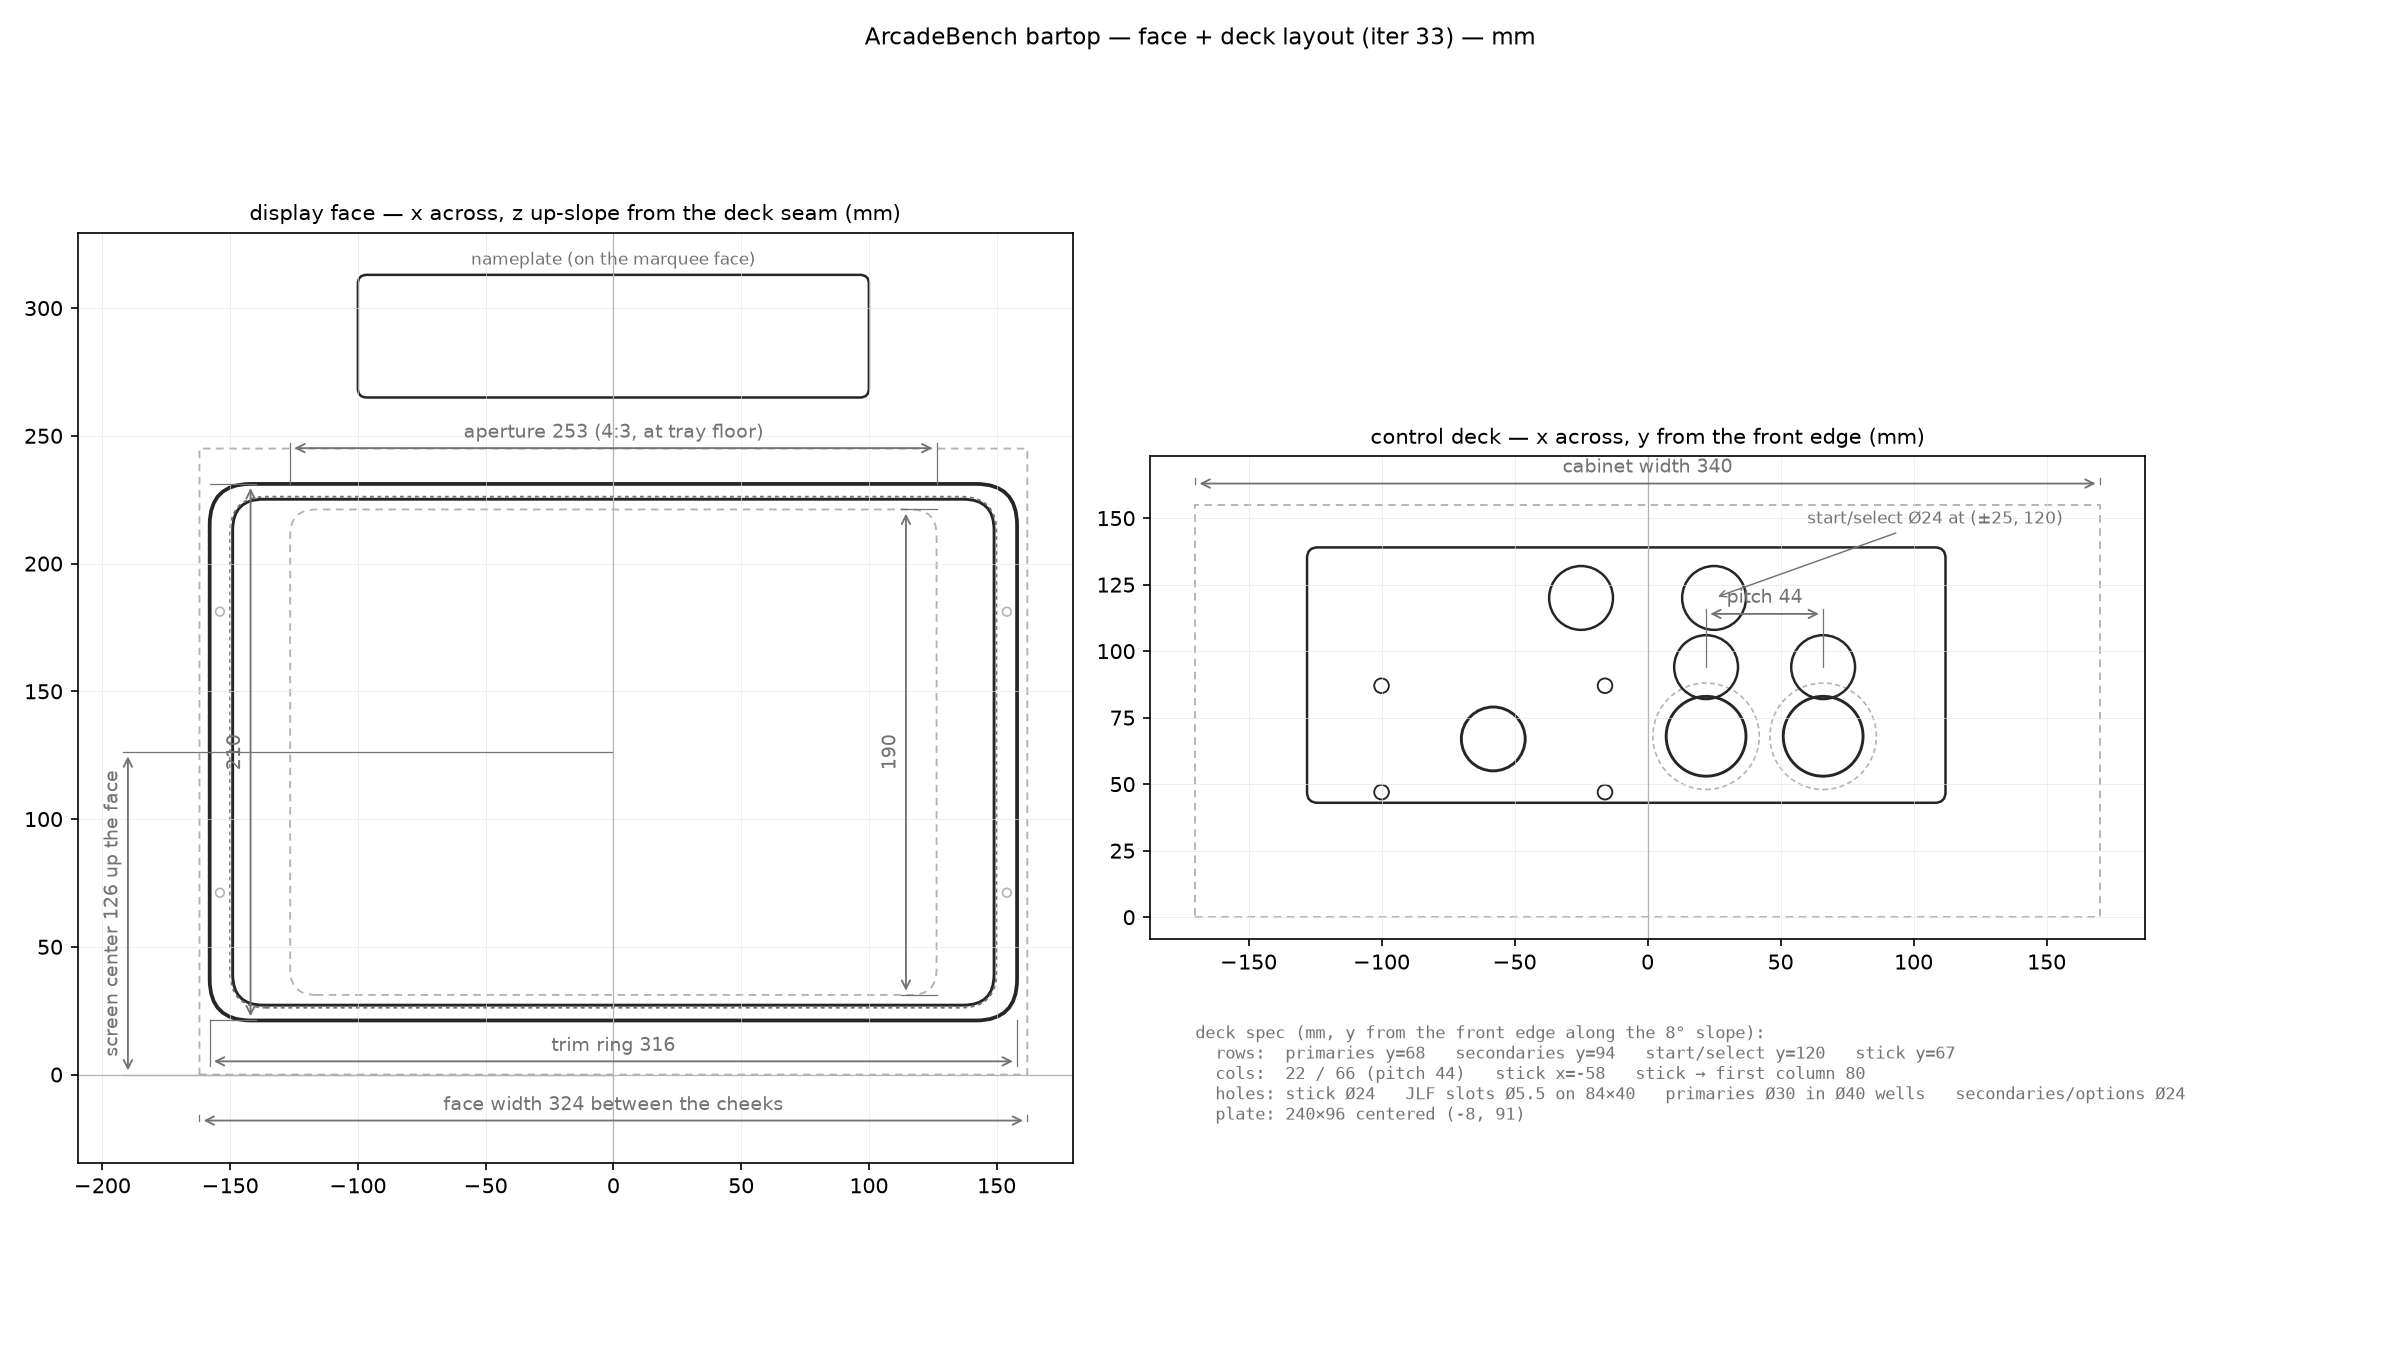
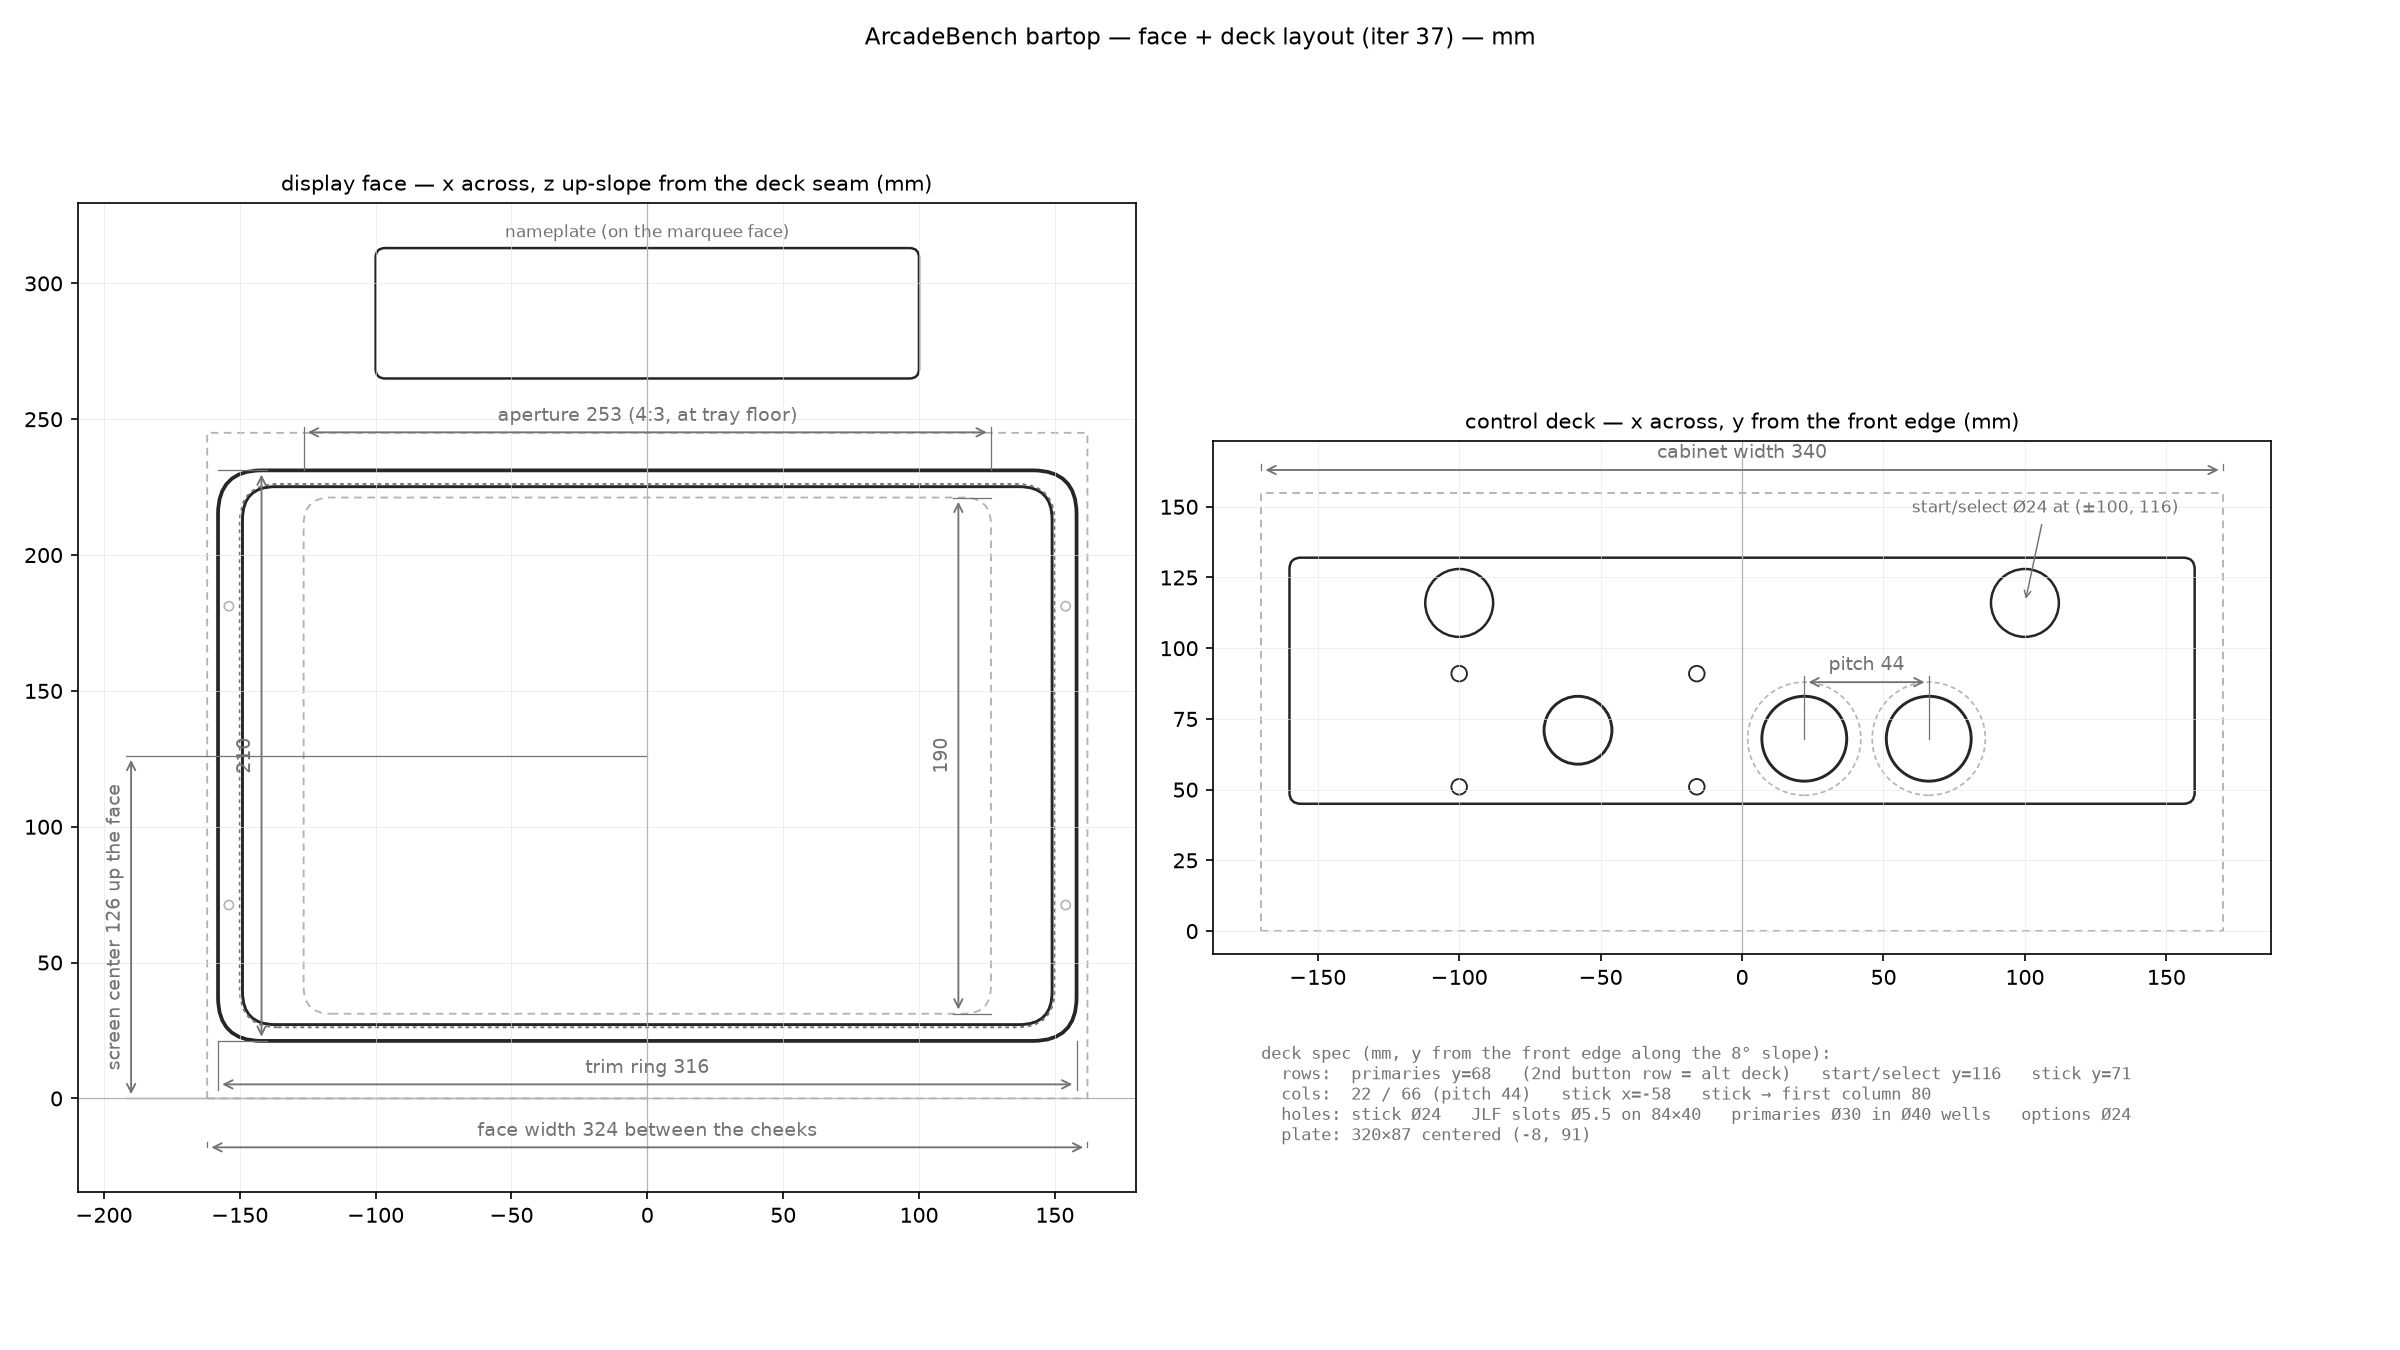
hardware iter 37: default controls = stick + 2 primaries + start/select
secondary_count 0 (no roster game needs >2 buttons; 2nd row becomes an
alt swappable deck panel). Primary pair x decoupled from the secondary
grid via new primary_center_x param — the old derivation dragged the
primaries into the JLF sweep at count=0. BOM updated.

diff --git a/hardware/drawing.py b/hardware/drawing.py
@@ -127,7 +127,7 @@ def draw_side():
             fontsize=9, family="monospace", va="top",
             bbox={"facecolor": "0.97", "edgecolor": "0.8"})
 
-    ax.set_title("ArcadeBench bartop — side cut pattern (iter 33) — mm, "
+    ax.set_title("ArcadeBench bartop — side cut pattern (iter 37) — mm, "
                  "solid = side plate, dashed = inner wrap line", fontsize=11)
     ax.set_xlabel("y: front -> back (mm)")
     ax.set_ylabel("z: height (mm)")
@@ -218,9 +218,7 @@ def draw_front():
                  jy + sy * P["jlf_mount_spacing_y"] / 2),
                 P["jlf_mount_hole_dia"] / 2, fill=False, edgecolor=CUT,
                 lw=0.9))
-    sec_center = P["button_grid_offset_x"] \
-        + P["secondary_pitch"] * (P["secondary_count"] - 1) / 2
-    cols = [cx + sec_center + (i - (P["primary_count"] - 1) / 2)
+    cols = [cx + P["primary_center_x"] + (i - (P["primary_count"] - 1) / 2)
             * P["primary_pitch"] for i in range(P["primary_count"])]
     for bx in cols:
         axd.add_patch(Circle((bx, P["primary_row_y"]),
@@ -229,6 +227,8 @@ def draw_front():
         axd.add_patch(Circle((bx, P["primary_row_y"]),
                              P["primary_recess_dia"] / 2, fill=False,
                              edgecolor=REF, lw=0.8, linestyle=(0, (3, 2))))
+    for i in range(P["secondary_count"]):
+        bx = cx + P["button_grid_offset_x"] + i * P["secondary_pitch"]
         axd.add_patch(Circle((bx, P["secondary_row_y"]),
                              P["secondary_hole_dia"] / 2, fill=False,
                              edgecolor=CUT, lw=1.2))
@@ -239,7 +239,7 @@ def draw_front():
 
     # dims: pitch above the grid + cabinet width; everything else in a
     # spec block below the deck (inline dims crowded the cluster)
-    dim(axd, (cols[0], P["secondary_row_y"]), (cols[1], P["secondary_row_y"]),
+    dim(axd, (cols[0], P["primary_row_y"]), (cols[1], P["primary_row_y"]),
         20, f"pitch {P['primary_pitch']:.0f}")
     axd.annotate(
         f"start/select \u00d824 at (\u00b1{P['option_offset_x']:.0f}, "
@@ -248,10 +248,12 @@ def draw_front():
         fontsize=8, color=DIM,
         arrowprops={"arrowstyle": "->", "color": DIM, "lw": 0.7})
     dim(axd, (-170, deck_d + 8), (170, deck_d + 8), 0, "cabinet width 340")
+    sec_note = (f"   secondaries y={P['secondary_row_y']:.0f}"
+                if P["secondary_count"] else "   (2nd button row = alt deck)")
     spec = "\n".join([
         "deck spec (mm, y from the front edge along the 8\u00b0 slope):",
-        f"  rows:  primaries y={P['primary_row_y']:.0f}   secondaries "
-        f"y={P['secondary_row_y']:.0f}   start/select y={P['option_offset_y']:.0f}"
+        f"  rows:  primaries y={P['primary_row_y']:.0f}{sec_note}"
+        f"   start/select y={P['option_offset_y']:.0f}"
         f"   stick y={P['joystick_offset_y']:.0f}",
         f"  cols:  {cols[0]:.0f} / {cols[1]:.0f} (pitch "
         f"{P['primary_pitch']:.0f})   stick x={jx:.0f}   "
@@ -260,7 +262,7 @@ def draw_front():
         f"slots \u00d8{P['jlf_mount_hole_dia']} on "
         f"{P['jlf_mount_spacing_x']:.0f}\u00d7{P['jlf_mount_spacing_y']:.0f}"
         f"   primaries \u00d830 in \u00d8{P['primary_recess_dia']:.0f} wells"
-        f"   secondaries/options \u00d824",
+        f"   options \u00d824",
         f"  plate: {pw:.0f}\u00d7{pd:.0f} centered ({P['cluster_offset_x']:.0f}"
         f", {P['control_plate_center_y']:.0f})",
     ])
@@ -272,7 +274,7 @@ def draw_front():
     axd.grid(True, lw=0.3, color="0.9")
     axd.axvline(0, color=REF, lw=0.6)
 
-    fig.suptitle("ArcadeBench bartop — face + deck layout (iter 33) — mm",
+    fig.suptitle("ArcadeBench bartop — face + deck layout (iter 37) — mm",
                  fontsize=11)
     fig.tight_layout()
     fig.savefig(OUT_DIR / "drawing_front.png", dpi=150)

diff --git a/hardware/assembly.py b/hardware/assembly.py
@@ -197,8 +197,8 @@ def place_components():
             (jx, jy, jz),
         )
 
-        # buttons: 2 primaries (red, front row) + 2 secondaries (white);
-        # seated square to the sloped deck (holes are cut the same way)
+        # buttons: 2 primaries (red, front row) — the basic assembly is
+        # stick + 2 + start/select; a 2nd row is an alt deck panel
         s_seat = CAB["control_deck_slope_deg"]
         for i in range(CAB["secondary_count"]):
             bx = cluster_x + CAB["button_grid_offset_x"] + i * CAB["secondary_pitch"]
@@ -210,10 +210,8 @@ def place_components():
                  for s, c in btn_parts],
                 (bx, by, deck_z(by)),
             )
-        sec_center = CAB["button_grid_offset_x"] \
-            + CAB["secondary_pitch"] * (CAB["secondary_count"] - 1) / 2
         for i in range(CAB["primary_count"]):
-            bx = cluster_x + sec_center \
+            bx = cluster_x + CAB["primary_center_x"] \
                 + (i - (CAB["primary_count"] - 1) / 2) * CAB["primary_pitch"]
             by = CAB["primary_row_y"]
             _, btn_parts, _ = comp.button_obsf30(color=comp.RED)

diff --git a/hardware/cabinet.py b/hardware/cabinet.py
@@ -172,8 +172,12 @@ PARAMS = {
     "primary_hole_dia": 30.0,      # 2 primaries/player: Sanwa OBSF-30
     "secondary_hole_dia": 24.0,    # 2 secondaries/player: Sanwa OBSF-24
     "primary_count": 2,
-    "secondary_count": 2,          # iter 33: 2+2 grid (was 4 secondaries) —
-                                   #   the game roster is stick + 1-2 buttons
+    "secondary_count": 0,          # iter 37: basic assembly is stick + 2
+                                   #   primaries + start/select — no game needs
+                                   #   >2 buttons; 2nd row = alt deck reprint
+    "primary_center_x": 52.0,      # primary pair center rel. cluster center
+                                   #   (decoupled from the secondary grid so a
+                                   #   0-secondary layout keeps its position)
     "primary_pitch": 44.0,         # mm between primaries (front row); the
                                    #   Ø40 wells keep 4 mm rim gaps at 44
     "secondary_pitch": 44.0,       # aligned 2x2 grid: same pitch both rows

diff --git a/hardware/parts.py b/hardware/parts.py
@@ -477,14 +477,12 @@ def _control_holes():
                 my = jy + sy * p["jlf_mount_spacing_y"] / 2
                 holes.append((jx + sx * p["jlf_mount_spacing_x"] / 2,
                               u(my), p["jlf_mount_hole_dia"] / 2, "plain"))
-        sec_center = p["button_grid_offset_x"] \
-            + p["secondary_pitch"] * (p["secondary_count"] - 1) / 2
         for i in range(p["secondary_count"]):
             bx = cluster_x + p["button_grid_offset_x"] + i * p["secondary_pitch"]
             holes.append((bx, u(p["secondary_row_y"]),
                           p["secondary_hole_dia"] / 2, "plain"))
         for i in range(p["primary_count"]):
-            bx = cluster_x + sec_center \
+            bx = cluster_x + p["primary_center_x"] \
                 + (i - (p["primary_count"] - 1) / 2) * p["primary_pitch"]
             holes.append((bx, u(p["primary_row_y"]),
                           p["primary_hole_dia"] / 2, "well"))

diff --git a/hardware/components.py b/hardware/components.py
@@ -389,11 +389,9 @@ def control_plate():
         for i in range(CAB["secondary_count"]):
             hole(cx + CAB["button_grid_offset_x"] + i * CAB["secondary_pitch"],
                  CAB["secondary_row_y"], CAB["secondary_hole_dia"] + 1.0)
-        sec_center = CAB["button_grid_offset_x"] \
-            + CAB["secondary_pitch"] * (CAB["secondary_count"] - 1) / 2
         for i in range(CAB["primary_count"]):
             hole(
-                cx + sec_center
+                cx + CAB["primary_center_x"]
                 + (i - (CAB["primary_count"] - 1) / 2) * CAB["primary_pitch"],
                 CAB["primary_row_y"],
                 CAB["primary_recess_dia"] + 0.4,  # reveal the tactile wells

diff --git a/hardware/panels.py b/hardware/panels.py
@@ -151,11 +151,9 @@ def panel_features(name, panel, length):
                     half - p["secondary_row_y"],
                     p["secondary_hole_dia"],
                 )
-            sec_center = p["button_grid_offset_x"] \
-                + p["secondary_pitch"] * (p["secondary_count"] - 1) / 2
             for i in range(p["primary_count"]):
                 hole(
-                    cluster_x + sec_center
+                    cluster_x + p["primary_center_x"]
                     + (i - (p["primary_count"] - 1) / 2) * p["primary_pitch"],
                     half - p["primary_row_y"],
                     p["primary_hole_dia"],

diff --git a/docs/HARDWARE-BOM.md b/docs/HARDWARE-BOM.md
@@ -47,7 +47,6 @@ Prices are USD, as listed at research time — re-check before ordering.
 | ☐ | Part | Spec / pick | Est. | Source |
 | --- | --- | --- | --- | --- |
 | ☐ | Primary buttons ×2 | Sanwa OBSF-30, red — front row, recessed-well indicator on the deck | $7 | [Paradise Arcade](https://paradisearcadeshop.com/collections/sanwa-obsf-series), [Focus Attack](https://focusattack.com/sanwa-obsf-30mm-pushbuttons-black/) |
-| ☐ | Secondary buttons ×4 | Sanwa OBSF-24, white — back row | $10 | Same |
 | ☐ | Start/select ×2 | Sanwa OBSF-24, black, ~$2.50 ea | $5 | Paradise Arcade |
 | ☐ | Joystick | Sanwa JLF-TP-8YT — no shaft extension needed at a 3 mm deck (stock shaft is fine to ~4 mm) | $25 | [Focus Attack](https://focusattack.com/sanwa-jlf-tp-8yt-joystick-precursor-to-jlx-tp-8yt/) |
 | ☐ | Microswitches/boots | Spares for JLF + buttons | $10 | Same |
@@ -61,6 +60,11 @@ Prices are USD, as listed at research time — re-check before ordering.
 > Snap-in caveat: OBSF buttons are designed for thin metal panels; at 3 mm
 > printed deck they're at the top of the grip range — test on a coupon first,
 > or switch to screw-in OBSN-30.
+
+> Layout note (iter 37): the default control assembly is **stick + 2 OBSF-30
+> + start/select** — no game in the roster needs more than two buttons. A
+> 2×2 grid (add 2 OBSF-24, white, ~$5) or any other layout is a swappable
+> deck-panel reprint, not a shell change.
 
 ## 4. Audio
 

diff --git a/hardware/design-notes.md b/hardware/design-notes.md
@@ -757,3 +757,17 @@ switch, PSU, inserts, feet) — then an assembled render with the enclosure.
   biggest solid base_f_r 392 cm3, tallest mid_l/r 175 mm. Everything
   fits an H2D with huge margin; a 256 bed (P1S/X1C/A1) also fits every
   part per parts.py, just more plates.
+
+2026-08-25 — iter 37: basic control assembly = stick + 2 + start/select.
+  secondary_count 2 -> 0: no game in the roster needs more than two
+  player buttons, so the default deck panel drops the OBSF-24 back row
+  (a 2x2 grid or any other layout stays a swappable deck-panel reprint,
+  ~40 cm3 flat print, no shell change). Trap found: the primary pair's x
+  was derived from the secondary grid (sec_center = grid_offset + pitch*
+  (count-1)/2) — at count=0 that formula silently drags the primaries
+  36 mm toward the stick into the JLF ball's sweep. Fix: new PARAMS
+  "primary_center_x" (52 rel cluster, keeps the pair at world x 22/66)
+  used by all five consumers (parts/assembly/components/panels/drawing).
+  Chain green: fit OK (0.294 known JLF wedge), 30 components (was 32),
+  deck panels 0.000 vs shell. BOM: secondary-button row removed, layout
+  note added (2x2 = +2 OBSF-24 alt panel).
